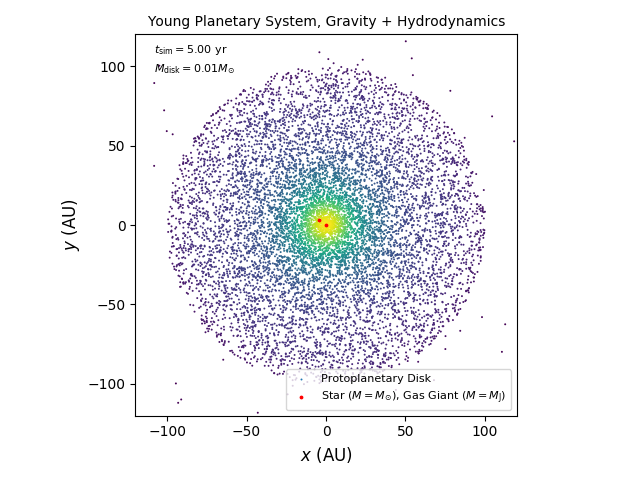
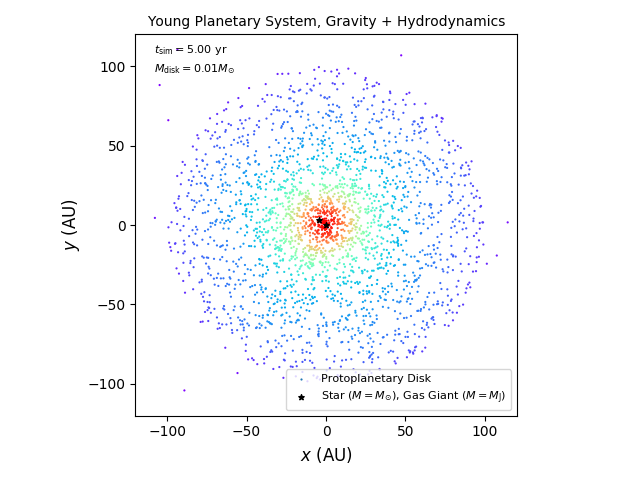
disk material evacuated pretty dramatically

Changed region(s): [[0.25, 0.125, 0.7812, 0.7812]]

diff --git a/src/simulation_script.py b/src/simulation_script.py
@@ -64,7 +64,7 @@ def simulation(nGas, nStars, diskMass, rMin, rMax, Q, diskmassfrac, tEnd, dt):
 	sim_times_unitless = np.arange(0, tEnd.value_in(units.yr), dt.value_in(units.yr))
 	sim_times = [ t|units.yr for t in sim_times_unitless ]
 
-	cm = plt.cm.get_cmap('viridis')
+	cm = plt.cm.get_cmap('rainbow')
 
 	for i, t in enumerate(sim_times):
 
@@ -88,8 +88,8 @@ def simulation(nGas, nStars, diskMass, rMin, rMax, Q, diskmassfrac, tEnd, dt):
 
 			plt.figure()
 			plt.gca().set_aspect('equal')
-			plt.scatter(xvals_gas, yvals_gas, s=8, marker='.', c=colors_gauss, cmap=cm, linewidths=0, label='Protoplanetary Disk')
-			sc = plt.scatter(xvals_stars_and_planets, yvals_stars_and_planets, s=12, marker='.', c='r', label=r'Star ($M=M_{\odot}$), Gas Giant ($M=M_{\mathrm{J}}$)')
+			plt.scatter(xvals_gas, yvals_gas, s=10, marker='.', c=colors_gauss, cmap=cm, linewidths=0, label='Protoplanetary Disk')
+			plt.scatter(xvals_stars_and_planets, yvals_stars_and_planets, s=16, marker='*', c='k', label=r'Star ($M=M_{\odot}$), Gas Giant ($M=M_{\mathrm{J}}$)')
 			plt.xlim(-120., 120.)
 			plt.ylim(-120., 120.)
 			plt.xlabel(r'$x$ (AU)', fontsize=12)

diff --git a/src/main.py b/src/main.py
@@ -30,7 +30,7 @@ def new_option_parser():
 	'''
 
 	optparser = OptionParser()
-	optparser.add_option('--nGas', dest='nGas', type='int', default=10000)
+	optparser.add_option('--nGas', dest='nGas', type='int', default=2500)
 	optparser.add_option('--nStars', dest='nStars', type='int', default=1)
 	optparser.add_option('--diskMass', dest='diskMass', type='float', default=0.1)
 	optparser.add_option('--rMin', dest='rMin', type='float', default=1.)
